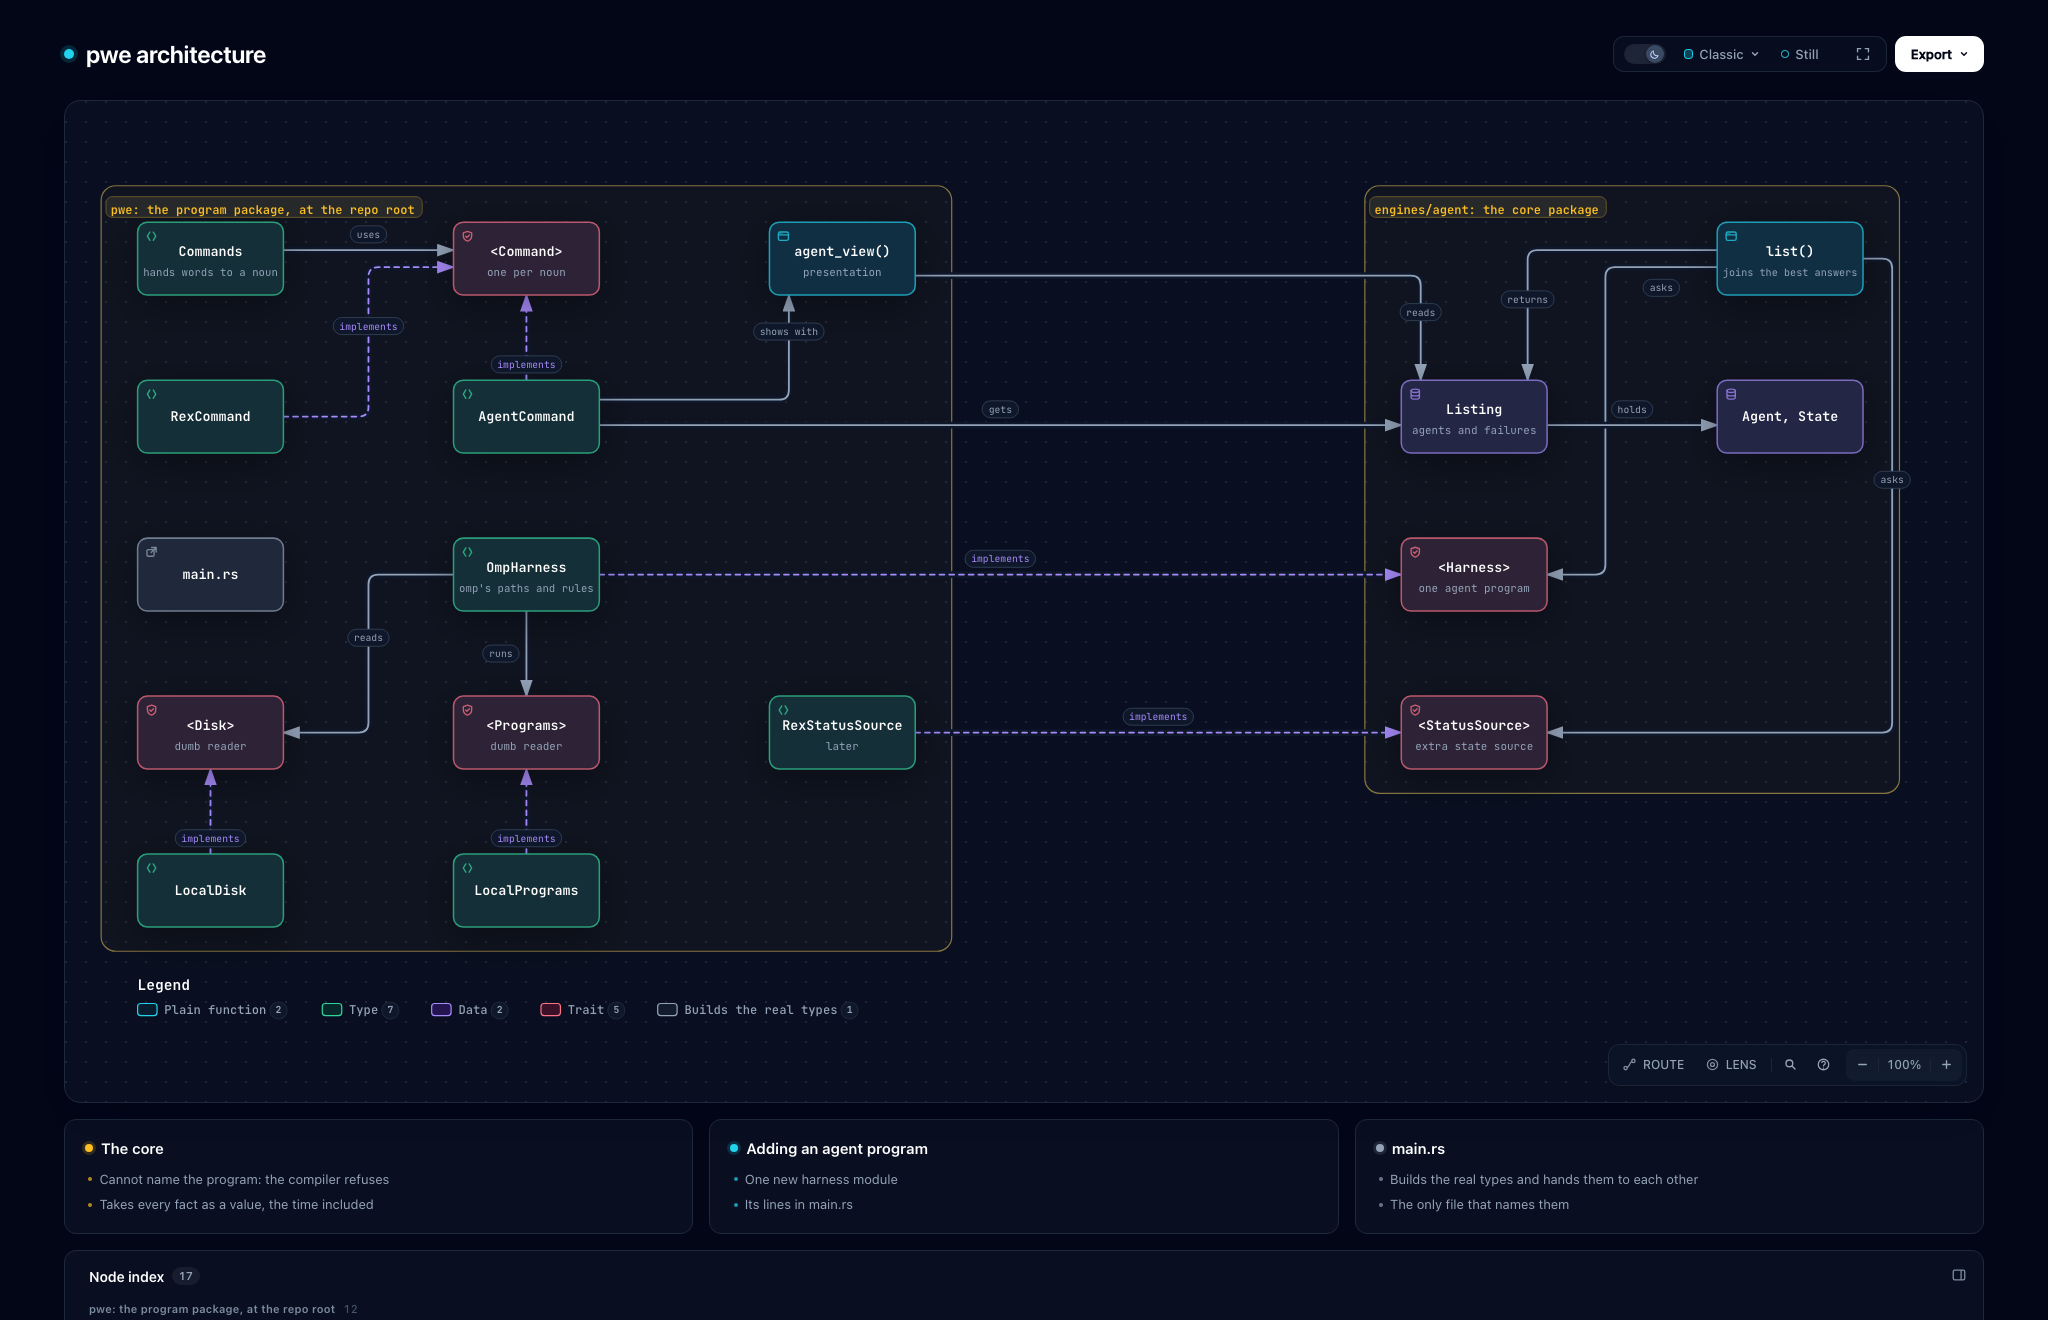
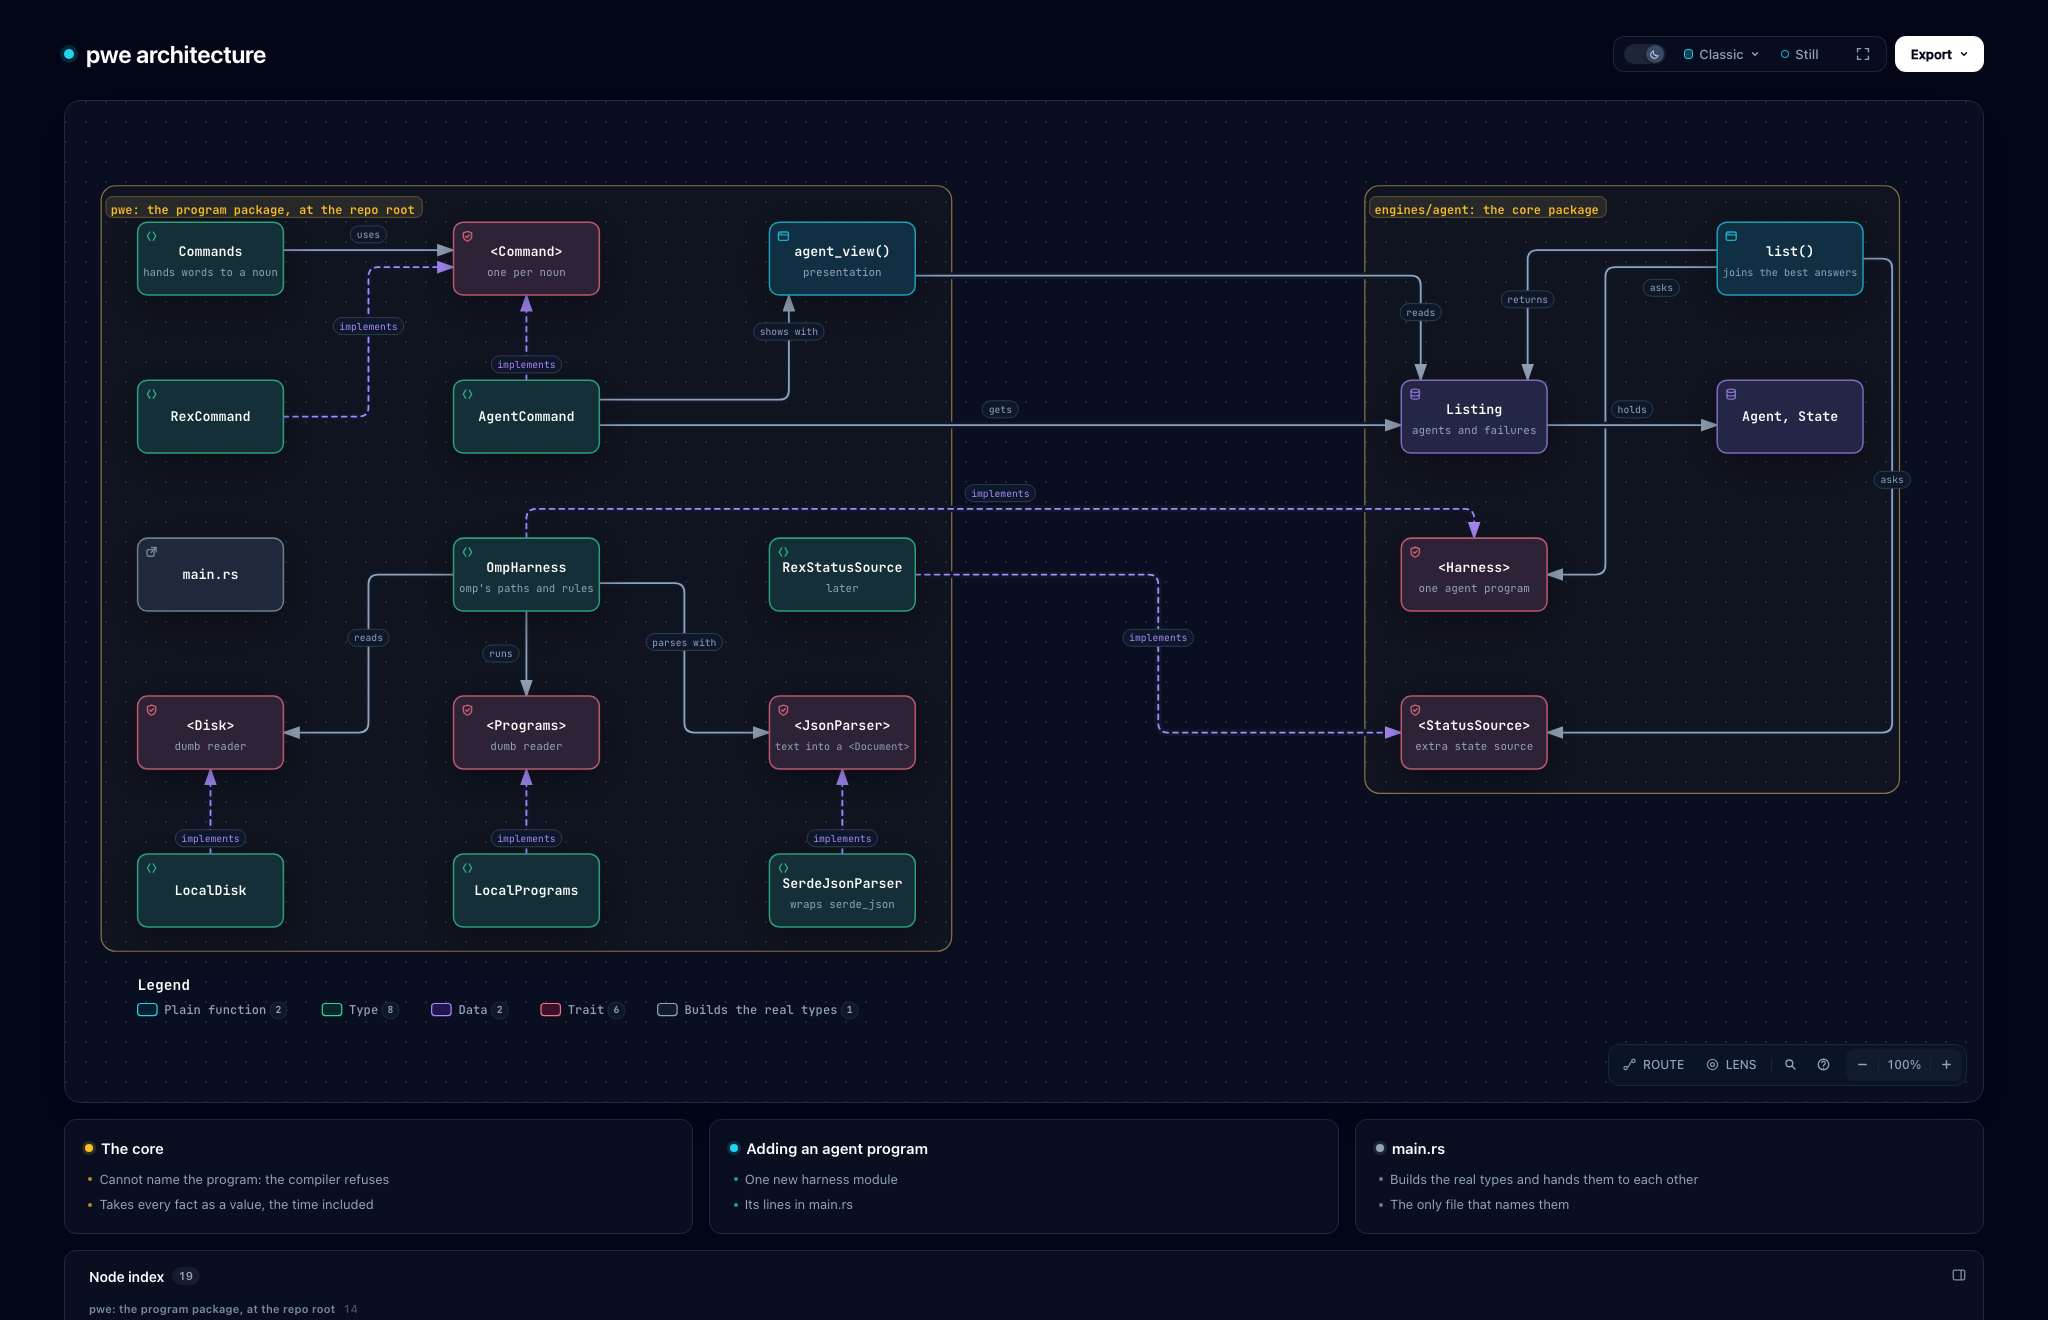
docs: add the omp harness and the JSON parser boundary to the design

diff --git a/docs/architecture.md b/docs/architecture.md
@@ -8,10 +8,12 @@ The picture is drawn from `docs/architecture.json`. `<Name>` is a trait. `name()
 
 | Package | Path | May use |
 | --- | --- | --- |
-| program | repo root | the core, `serde_json` |
+| program | repo root | the core, `serde_json` behind `<JsonParser>` |
 | agent core | `engines/agent` | the standard library |
 
 A second engine gets its own package under `engines/`. The workspace lists `members = ["engines/*"]` and `default-members = [".", "engines/*"]`, so a plain `cargo test` covers every engine; `cargo test -p pwe` does not. The compiler does not report unused public parts of a core, so delete what the program stops using.
+
+Every outside package sits behind a trait of pwe's own. One type implements that trait with the package, and its file is the only one that names the package, so swapping the package means one new type and one line in `main.rs`. `SerdeJsonParser` implements `<JsonParser>` with `serde_json`.
 
 ## The core
 
@@ -29,7 +31,7 @@ The core takes every fact as a value, the current time included.
 ## The program
 
 - **Harness module**: one per agent program (`OmpHarness`, `ClaudeCodeHarness`, `CodexHarness`). It holds that program's paths, commands and rules, and reaches the machine only through the readers. A fact only one program has stays inside its module. It uses what the program reports before working a state out from its files.
-- **Readers**: `<Disk>` and `<Programs>`, shared by every harness. `LocalDisk` reads and `LocalPrograms` runs. They hold no rules.
+- **Readers**: `<Disk>`, `<Programs>` and `<JsonParser>`, shared by every harness. `LocalDisk` reads, `LocalPrograms` runs, and `SerdeJsonParser` turns text into a `<Document>`, whose fields read the same whatever format the text came in. They hold no rules.
 - **Rex source**: runs the `rex` program. Rex's socket waits until a view needs live updates.
 - **Presentation**: a plain function per view, from a `Listing` to what is shown. Each row shows how long its agent has been in its state, such as `finished 2m`. Text read from an agent program's files is printed with its control characters removed, so it cannot steer the terminal.
 - **Command line**: each noun implements `<Command>` (`RexCommand`, `AgentCommand`) and gives its words and its lines of help. `Commands` hands the words to the noun and is not itself a `<Command>`. An answer carries the output, the error text and the exit code. `AgentCommand` holds a function that returns a `Listing`, so a list fed later by a background process changes only `main.rs`; its tests hand it a made-up one.
@@ -79,8 +81,7 @@ The 10 minutes lives in one place in the core, and tests do not repeat the numbe
 
 Each line is one pull request, in this order. Delete a line when it is built.
 
-4. `OmpHarness`, from omp's own files.
-5. A Rex status source.
+5. A Rex status source. `OmpHarness` then gives each session's process id, found through `~/.omp/agent/terminal-sessions`, so Rex can join it.
 6. `ClaudeCodeHarness`.
 7. `CodexHarness`, after its hooks are tested with its background server on. It gives each window's process id, since Rex can join a Codex window by nothing else.
 8. omp's relay, as a source: `omp collab list` says when an agent needs input, and omp's files cover each agent the relay does not list. It needs a relay program kept running; retest on the current omp first.
